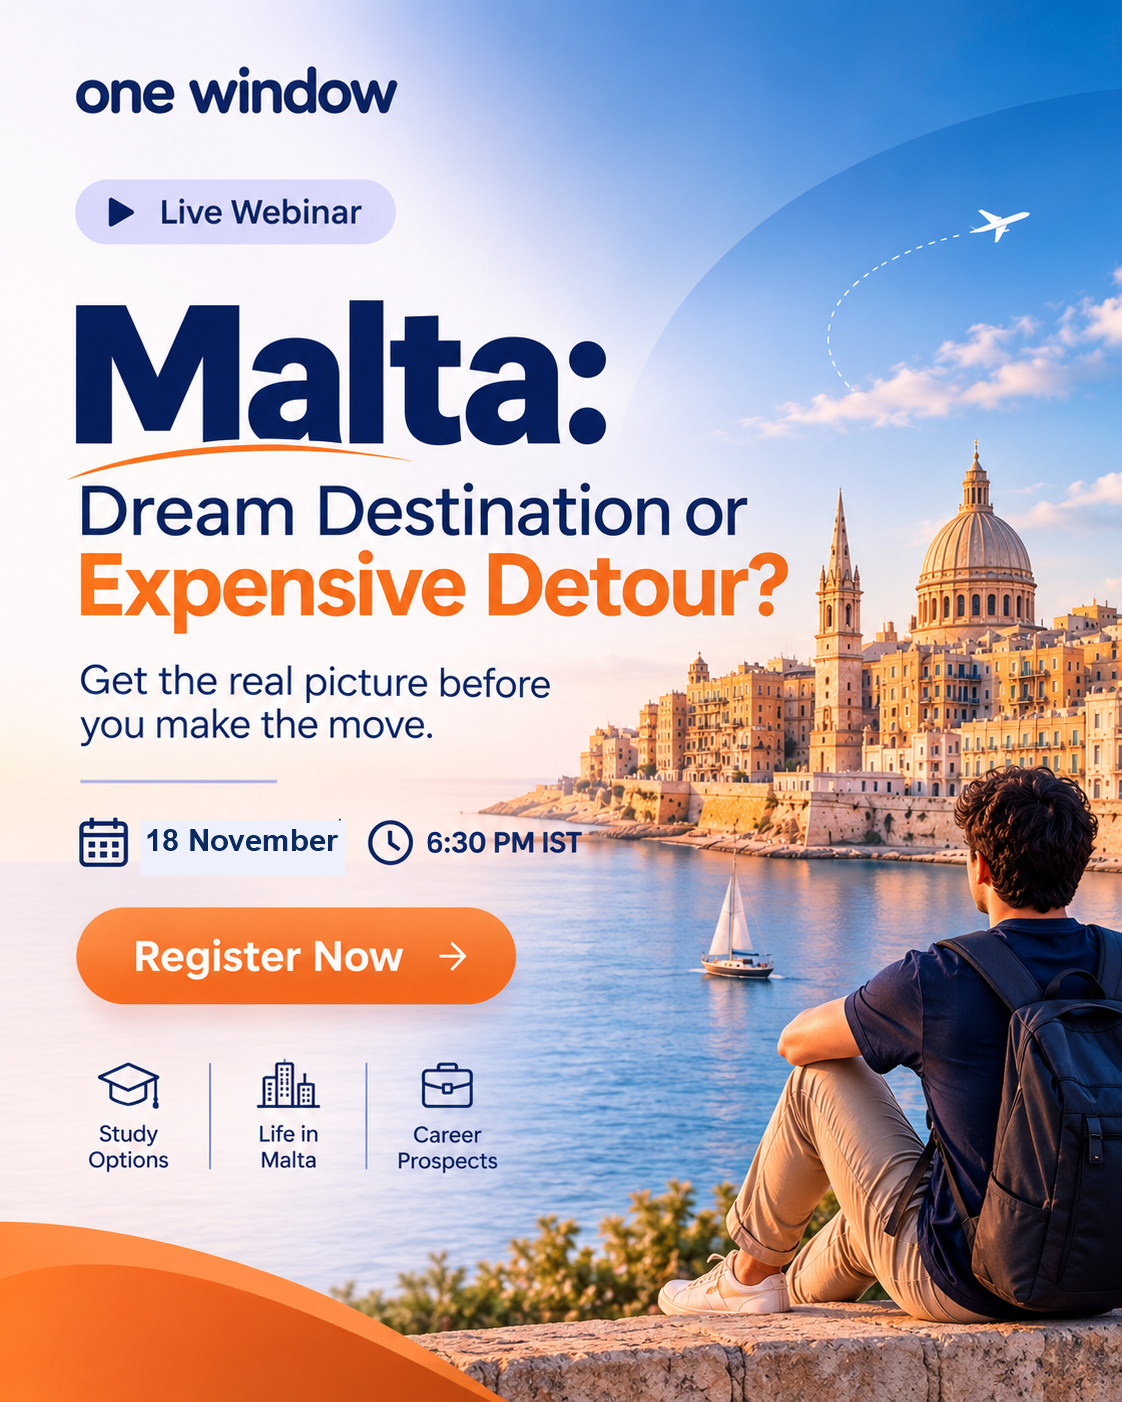
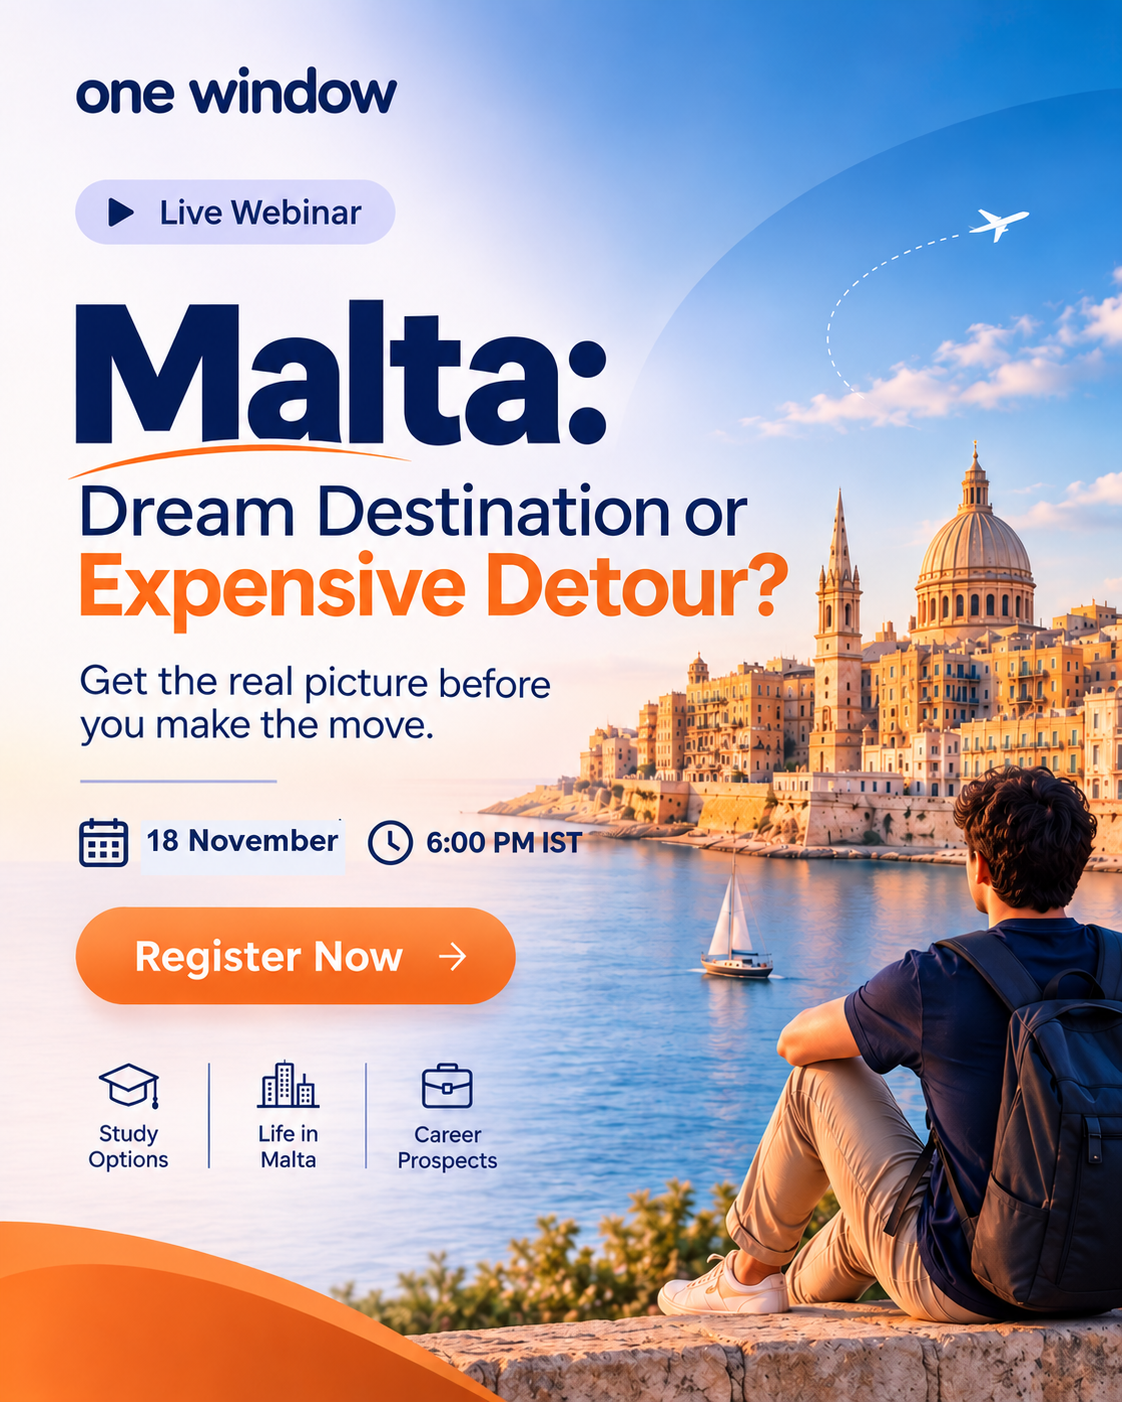
event updating

diff --git a/App/Frontend/app/events/page.tsx b/App/Frontend/app/events/page.tsx
@@ -11,7 +11,7 @@ import { Footer } from "../components/footer";
 import { Navigation } from "../components/navigation";
 import styles from "./events.module.css";
 
-const registrationUrl = "https://meet.zoho.in/mwqd-dbi-ajk";
+const registrationUrl = "https://forms.zohopublic.in/onewindow/form/MaltaWebinar/formperma/63OBncjY2W2We-z7gI7dru8anDUgKvzkvBDmAXny_Zo";
 
 const sessionTopics = [
   {
@@ -81,7 +81,7 @@ export default function EventsPage() {
               </span>
               <span>
                 <Clock3 aria-hidden="true" size={19} />
-                6:30 PM IST
+                6:00 PM IST
               </span>
             </div>
 

diff --git a/App/Frontend/app/components/popup-banner.config.ts b/App/Frontend/app/components/popup-banner.config.ts
@@ -2,9 +2,9 @@ export const popupBanner = {
   enabled: true,
   image: "/campaigns/malta-webinar-popup.png",
   imageAlt:
-    "Malta live webinar, Dream Destination or Expensive Detour, on 18 November at 6:30 PM IST",
+    "Malta live webinar, Dream Destination or Expensive Detour, on 18 November at 6:00 PM IST",
   title: "Malta live webinar",
   bubbleLabel: "Malta webinar",
-  href: "https://meet.zoho.in/mwqd-dbi-ajk",
+  href: "https://forms.zohopublic.in/onewindow/form/MaltaWebinar/formperma/63OBncjY2W2We-z7gI7dru8anDUgKvzkvBDmAXny_Zo",
   storageKey: "ow-malta-webinar-popup-collapsed",
 } as const;
